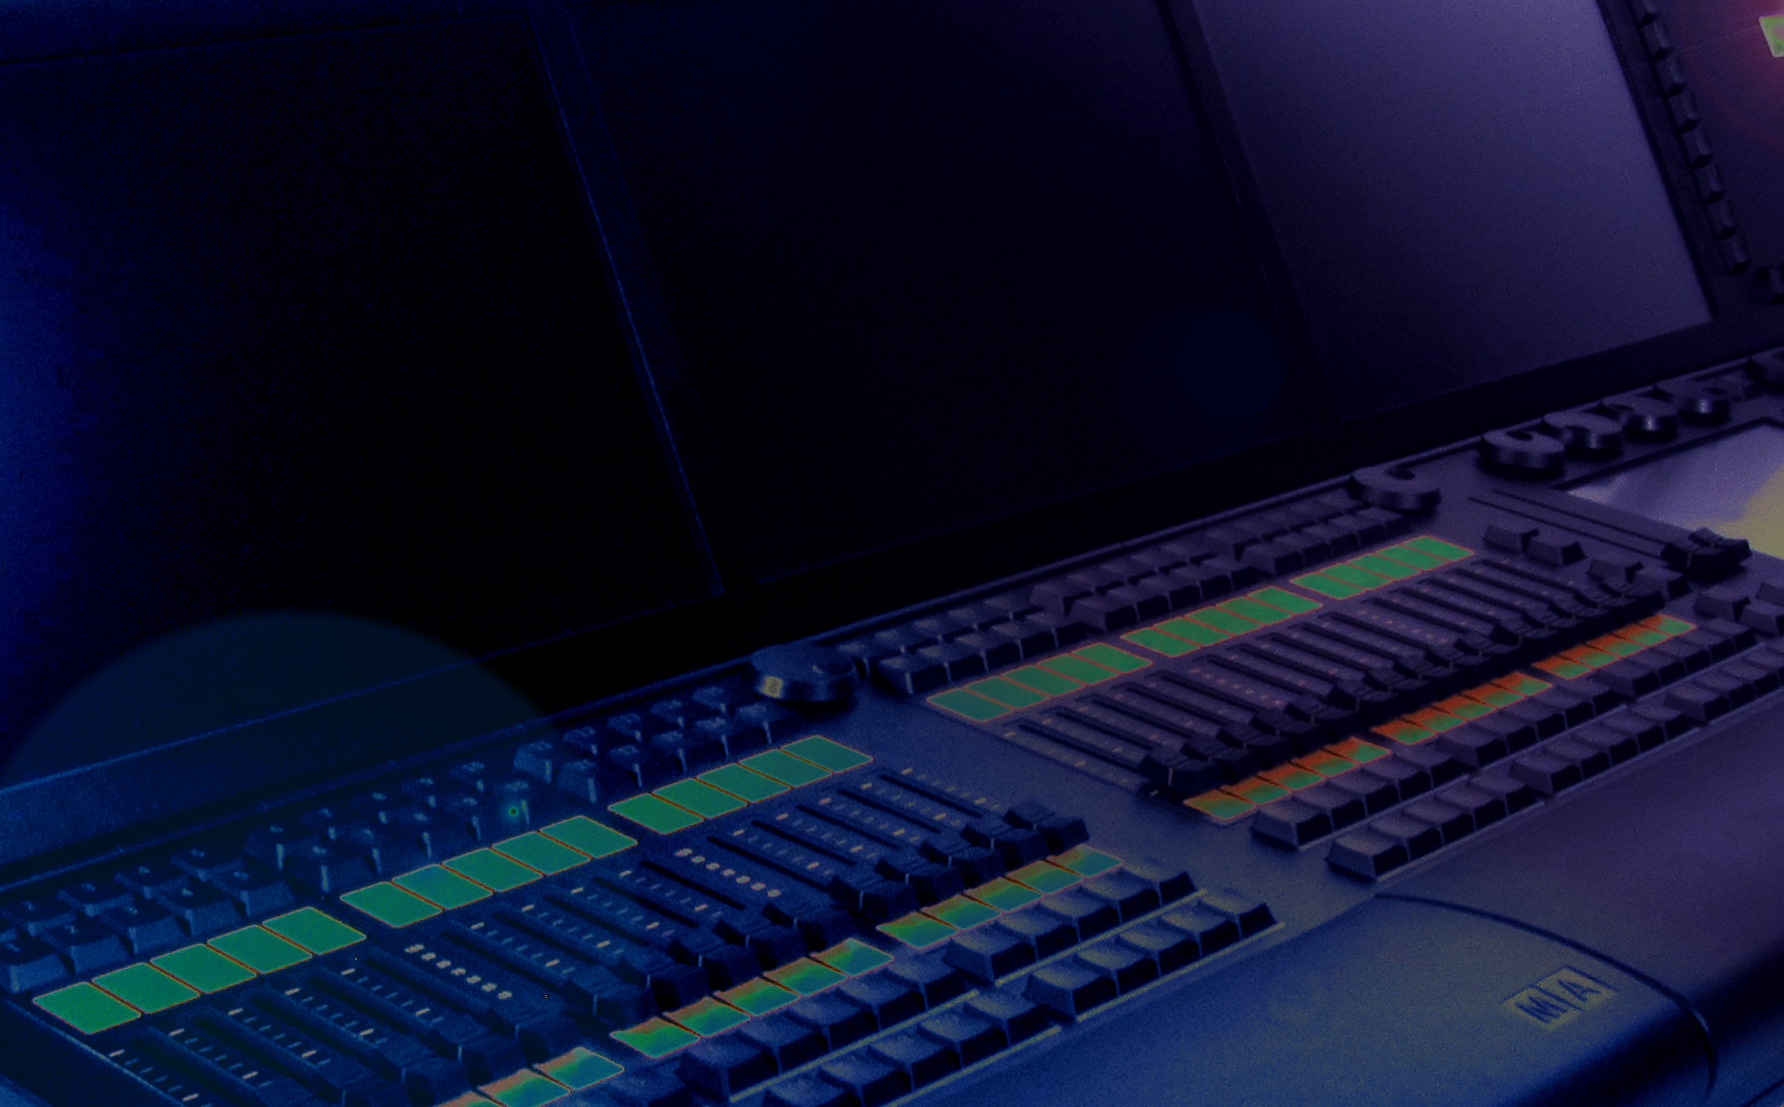
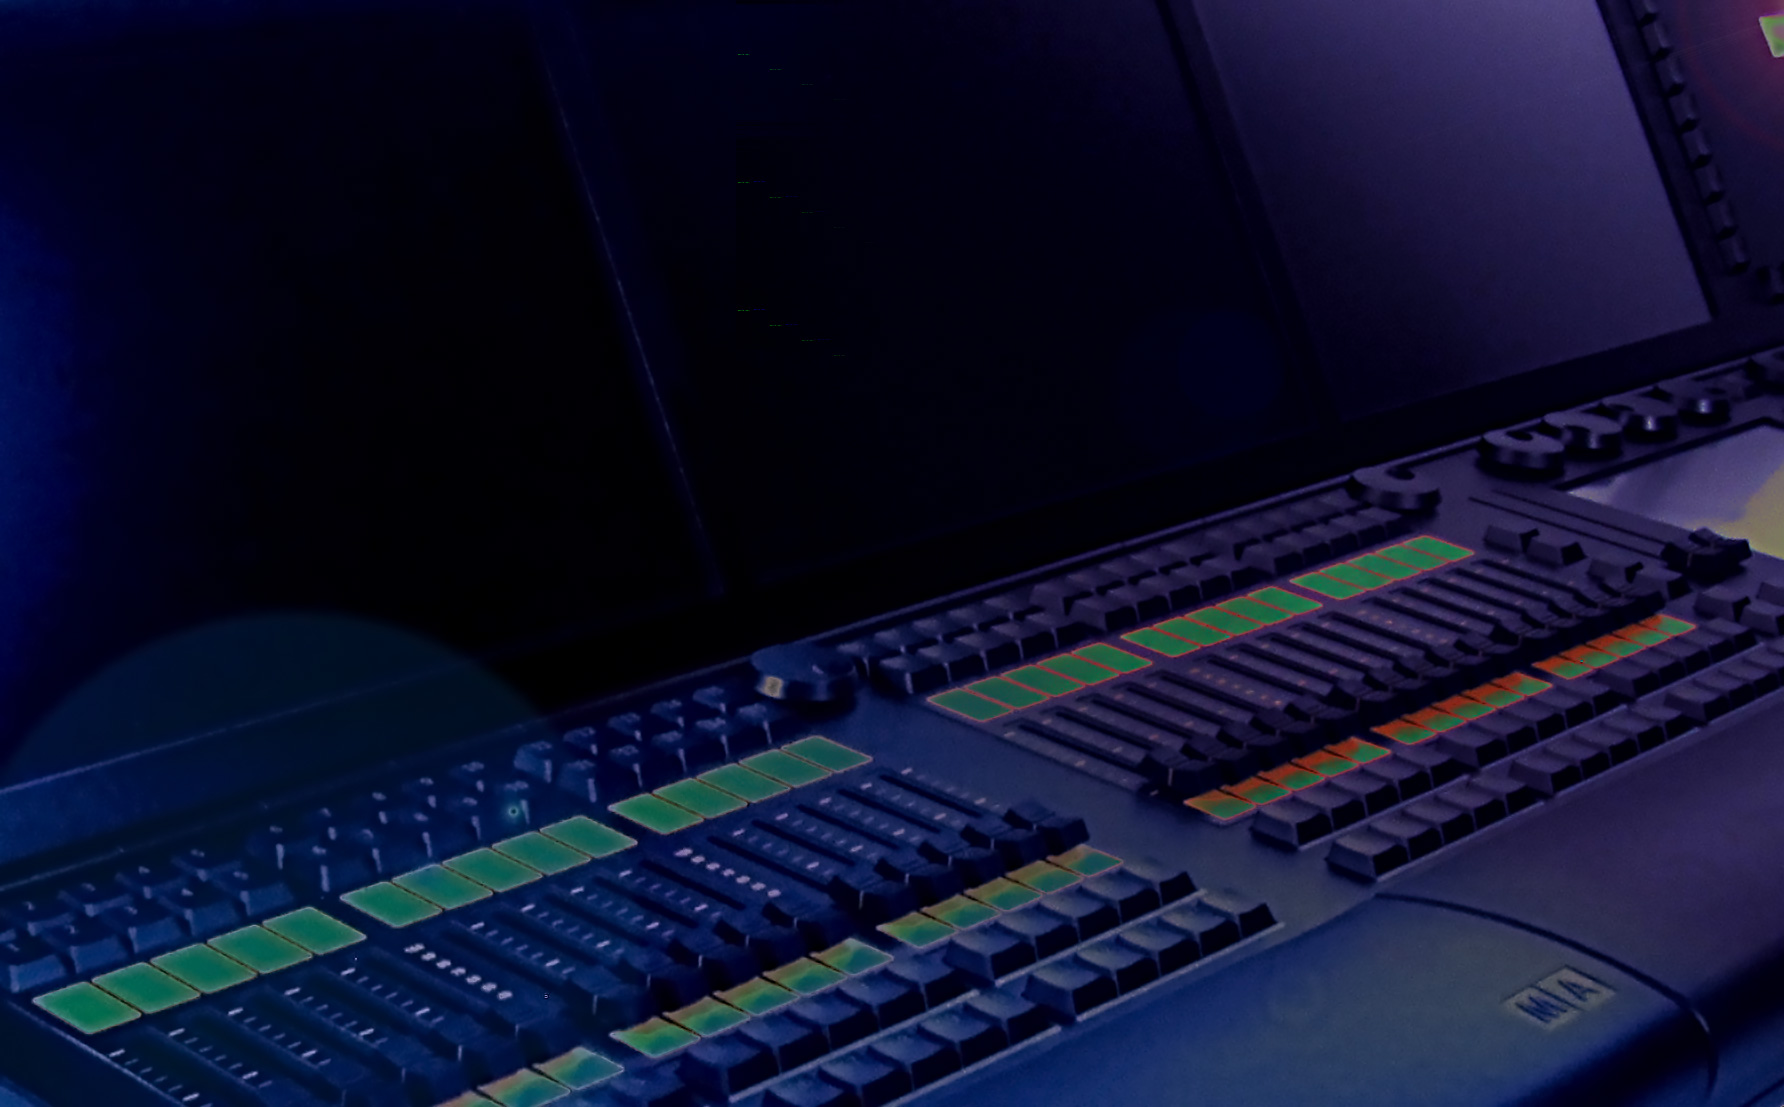
Blue colors and animate.css addition

diff --git a/index.html b/index.html
@@ -36,6 +36,9 @@
         <script src="https://oss.maxcdn.com/libs/respond.js/1.4.2/respond.min.js"></script>
     <![endif]-->
 
+    <!-- animate.css -->
+    <link rel="stylesheet" href="https://cdnjs.cloudflare.com/ajax/libs/animate.css/3.5.2/animate.min.css">
+
 </head>
 
 <body id="page-top" class="index">
@@ -100,7 +103,7 @@
             <div class="row">
                 <div class="col-lg-12 text-center">
                     <h2 class="section-heading">Services</h2>
-                    <h3 class="section-subheading text-muted">Lorem ipsum dolor sit amet consectetur.</h3>
+                    <h3 class="section-subheading text-blue">Lorem ipsum dolor sit amet consectetur.</h3>
                 </div>
             </div>
             <div class="row text-center">
@@ -213,7 +216,7 @@
             <div class="row">
                 <div class="col-lg-12 text-center">
                     <h2 class="section-heading">About</h2>
-                    <h3 class="section-subheading text-muted">Lorem ipsum dolor sit amet consectetur.</h3>
+                    <h3 class="section-subheading text-blue">Lorem ipsum dolor sit amet consectetur.</h3>
                 </div>
             </div>
             <div class="row">
@@ -294,7 +297,7 @@
             <div class="row">
                 <div class="col-lg-12 text-center">
                     <h2 class="section-heading">Our Amazing Team</h2>
-                    <h3 class="section-subheading text-muted">Lorem ipsum dolor sit amet consectetur.</h3>
+                    <h3 class="section-subheading text-blue">Lorem ipsum dolor sit amet consectetur.</h3>
                 </div>
             </div>
             <div class="row">
@@ -614,8 +617,8 @@
     <script src="http://cdnjs.cloudflare.com/ajax/libs/gsap/1.19.0/TweenMax.min.js"></script>
     <script src="https://cdnjs.cloudflare.com/ajax/libs/jquery-easing/1.3/jquery.easing.min.js"></script>
     <script src="//cdnjs.cloudflare.com/ajax/libs/ScrollMagic/2.0.3/ScrollMagic.js"></script>
-    <!--
-    <script src="http://cdnjs.cloudflare.com/ajax/libs/ScrollMagic/2.0.5/plugins/debug.addIndicators.min.js"></script>-->
+    
+    <script src="http://cdnjs.cloudflare.com/ajax/libs/ScrollMagic/2.0.5/plugins/debug.addIndicators.min.js"></script>
 
     <!-- Contact Form JavaScript -->
     <script src="js/jqBootstrapValidation.js"></script>

diff --git a/css/agency.css b/css/agency.css
@@ -17,6 +17,9 @@ body {
 .text-light {
   color: white;
 }
+.text-blue{
+  color: #122865;
+}
 .text-primary {
   color: #50bf00;
 }
@@ -350,7 +353,7 @@ section h2.section-heading {
   font-size: 40px;
   margin-top: 0;
   margin-bottom: 15px;
-  color: #464646;
+  color: #122865;
 }
 section h3.section-subheading {
   font-size: 16px;
@@ -379,7 +382,7 @@ section h3.section-subheading {
   background-size: cover;
   -o-background-size: cover;  position: fixed;
   min-width: 100%;
-  height: 130vh;
+  height: 120vh;
   top:10vh;
   left:0;
   z-index: -2;
@@ -501,11 +504,15 @@ section h3.section-subheading {
     position: absolute;
     left: 0;
     /*box-shadow: -1px 1px 5px 1px #d8d8d8;*/
-    border: thin solid #d6d5d5;
+    border: thin solid #0d488d;
+}
+
+#services .fa-stack{
+  overflow: hidden;
 }
 
 #services .fa-stack i{
-    text-shadow: -3px 3px 8px #adadad;
+    color: #0d488d;
 }
 
 .timeline {
@@ -518,8 +525,8 @@ section h3.section-subheading {
   bottom: 0;
   position: absolute;
   content: "";
-  width: 2px;
-  background-color: #f1f1f1;
+  width: 1px;
+  background-color: #0d488d;
   left: 40px;
   margin-left: -1.5px;
 }
@@ -563,16 +570,16 @@ section h3.section-subheading {
   position: absolute;
   z-index: 100;
   background: rgb(239, 239, 239);
-  box-shadow: -1px 1px 5px 1px #d8d8d8;
   color: white;
   border-radius: 100%;
   text-align: center;
+  border: thin solid #0d488d;
 }
 .timeline > li .timeline-image h4 {
   font-size: 10px;
   margin-top: 12px;
   line-height: 14px;
-  color: #505050;
+  color: #122865;
 }
 .timeline > li.timeline-inverted > .timeline-panel {
   float: right;
@@ -692,7 +699,7 @@ section h3.section-subheading {
   }
   .timeline > li .timeline-image h4 {
     font-size: 18px;
-    margin-top: 30px;
+    margin-top: 37px;
     line-height: 26px;
   }
   .timeline > li.timeline-inverted > .timeline-panel {
@@ -724,7 +731,7 @@ section h3.section-subheading {
 }
 .team-member img {
   margin: 0 auto;
-  border: 7px solid white;
+  border: thin solid #0d488d;
 }
 .team-member h4 {
   margin-top: 25px;

diff --git a/js/scrollmagic.js b/js/scrollmagic.js
@@ -124,7 +124,8 @@ $(function () {
 
 	var sceneA = new ScrollMagic.Scene({
 		triggerElement: "#header",
-		duration: '100%'
+		offset: '-10%',
+		duration: '110%'
 	})
 	.on("enter", function (e) {
 		$(".portfolioBg").css("display", "none");
@@ -132,6 +133,7 @@ $(function () {
 		$(".headerBg").css("display", "block");		
 	})
 	.setTween(".headerBg", {y: "-20%", ease: Linear.easeNone})
+	.addIndicators()
 	.addTo(controller);
 
 
@@ -142,6 +144,7 @@ $(function () {
 	var scene1 = new ScrollMagic.Scene({
 		triggerElement: "#portfolio",
 		triggerHook: 'onEnter',
+		offset: '-10%',
 		duration: '200%'
 	})
 	.on("enter", function (e) {
@@ -149,7 +152,18 @@ $(function () {
 		$(".contactBg").css("display", "none");
 		$(".headerBg").css("display", "none");		
 	})
+	.on("leave", function (e) {
+
+		$direction = e.target.controller().info("scrollDirection");
+
+		if($direction == "REVERSE"){			
+			$(".portfolioBg").css("display", "none");
+			$(".contactBg").css("display", "none");
+			$(".headerBg").css("display", "block");	
+		}	
+	})
 	.setTween(".portfolioBg", {y: "-20%", ease: Linear.easeNone})
+	.addIndicators()
 	.addTo(controller);
 
 });
@@ -161,7 +175,8 @@ $(function () {
 	var contactScene = new ScrollMagic.Scene({
 		triggerElement: "#contact",
 		triggerHook: 'onEnter',
-		duration: '100%'
+		offset: '-10%',
+		duration: '110%'
 	})
 	.setTween(".contactBg", {y: "-20%", ease: Linear.easeNone})
 	.on("enter", function (e) {

diff --git a/js/agency.js b/js/agency.js
@@ -30,4 +30,17 @@
         }
     })
 
+    // Animate Icons
+    $('#services .fa-shopping-cart').hover(function(){
+        $(this).toggleClass('animated zoomOutRight');
+    });
+
+    $('#services .fa-laptop').hover(function(){
+        $(this).toggleClass('animated rubberBand');
+    });
+
+    $('#services .fa-lock').hover(function(){
+        $(this).toggleClass('animated shake');
+    });
+
 })(jQuery); // End of use strict
